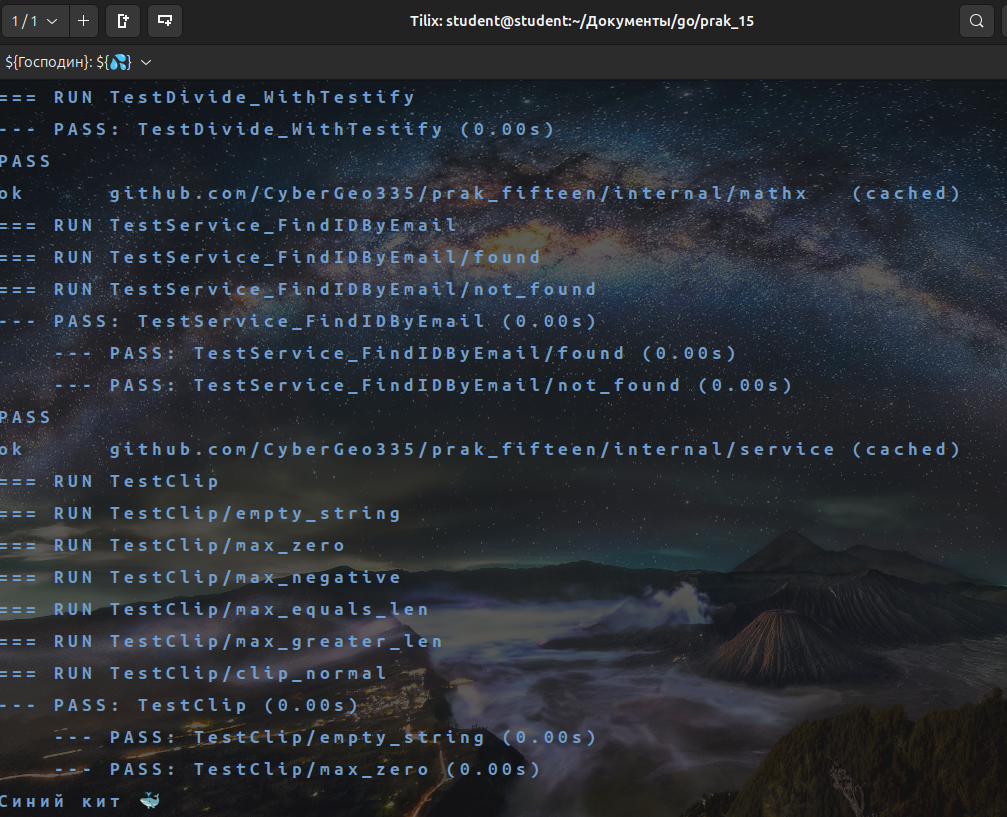
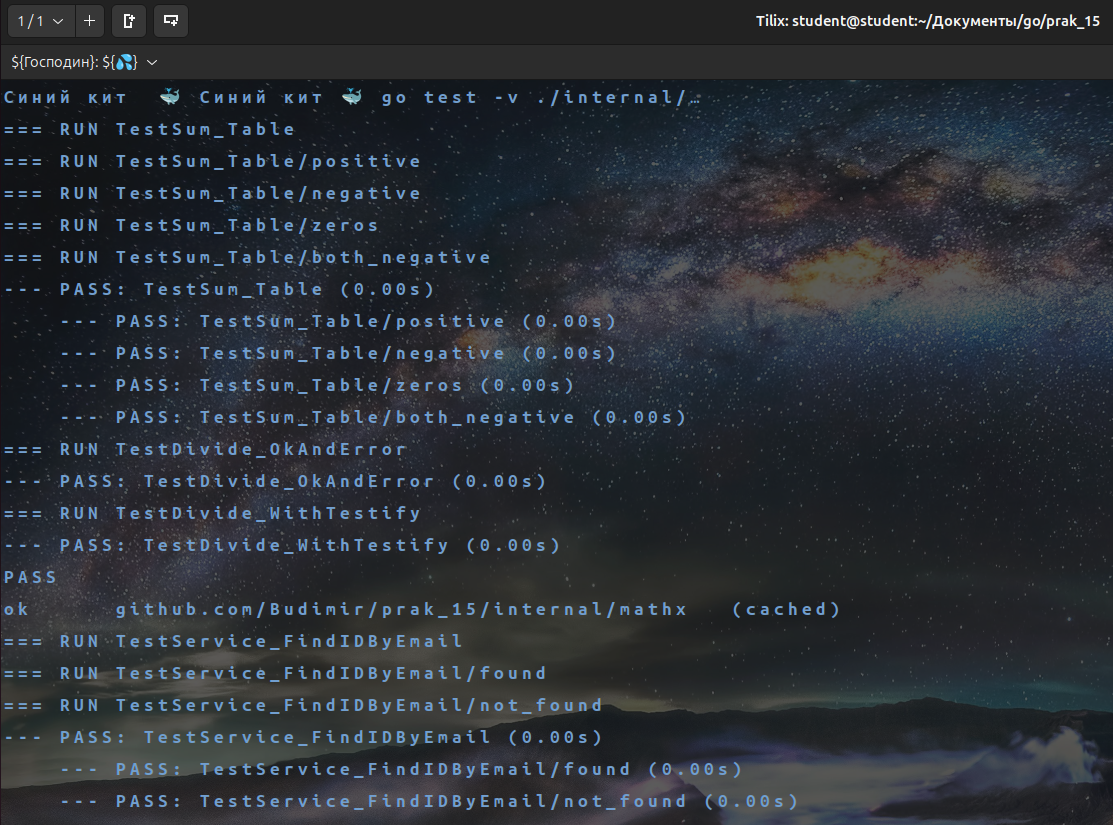
commit ALL

diff --git a/prak_14/README.md b/prak_14/README.md
@@ -24,239 +24,49 @@
 ## Установка и запуск
 
 ### 
-## Оптимизация запросов
-### 1. Keyset-пагинация вместо OFFSET
-internal/repo/note_pg.go:
-// Плохой вариант с OFFSET (медленный на больших смещениях)
-func (r *NoteRepoPostgres) ListOld(ctx context.Context, limit, offset int) ([]*core.Note, error) {
-    query := `
-        SELECT id, title, content, created_at
-        FROM notes
-        ORDER BY created_at DESC, id DESC
-        LIMIT $1 OFFSET $2
-    `
-    // ...
-}
 
-// Оптимизированный вариант с keyset-пагинацией
-func (r *NoteRepoPostgres) List(ctx context.Context, limit int, lastCreatedAt *time.Time, lastID *int64) ([]*core.Note, error) {
-    var rows pgx.Rows
-    var err error
+Запуск проекта:
+Клоним репозиторий:
+git clone https://github.com/Budimir1/Software_Creation_Technologies/tree/main/prak_14
+Проверяем что Go и Git есть:
+pish_golang % cd prak_fourteen
+prak_fourteen % go version
+go version go1.23.2 darwin/arm64
+prak_fourteen % git --version
+git version 2.39.5 (Apple Git-154)
+prak_fourteen %
+Переходим в девятую работу:
+cd prak_fourteen/cmd
+Пример нашего .env:
+# Remote Postgres
+DB_DSN=postgres://root:root@http://address:5432/pz9_bcrypt?sslmode=disable
 
-    if lastCreatedAt != nil && lastID != nil {
-        query := `
-            SELECT id, title, content, created_at
-            FROM notes
-            WHERE (created_at, id) < ($1, $2)
-            ORDER BY created_at DESC, id DESC
-            LIMIT $3
-        `
-        rows, err = r.pool.Query(ctx, query, *lastCreatedAt, *lastID, limit)
-    } else {
-        query := `
-            SELECT id, title, content, created_at
-            FROM notes
-            ORDER BY created_at DESC, id DESC
-            LIMIT $1
-        `
-        rows, err = r.pool.Query(ctx, query, limit)
-    }
-    // ...
-}
+# HTTP
+HTTP_ADDR=:8087
 
-### 2. Устранение N+1 запросов (батчинг)
-// До оптимизации: N отдельных запросов
-func (r *NoteRepoPostgres) GetMultipleNaive(ctx context.Context, ids []int64) ([]*core.Note, error) {
-    var notes []*core.Note
-    for _, id := range ids {
-        note, err := r.GetByID(ctx, id) // N запросов
-        if err != nil {
-            return nil, err
-        }
-        notes = append(notes, note)
-    }
-    return notes, nil
-}
+# Redis (локально через docker compose)
+REDIS_ADDR=127.0.0.1:6379
+REDIS_PASSWORD=kek
+REDIS_DB=0
+CACHE_TTL_SECONDS=45
+Запуск на удалённом сервере:
+go build -o bin/prak_fourteen ./cmd/api/
 
-// После оптимизации: 1 запрос с батчингом
-func (r *NoteRepoPostgres) GetMultiple(ctx context.Context, ids []int64) ([]*core.Note, error) {
-    if len(ids) == 0 {
-        return []*core.Note{}, nil
-    }
-
-    query := `
-        SELECT id, title, content, created_at
-        FROM notes
-        WHERE id = ANY($1)
-        ORDER BY created_at DESC
-    `
-
-    rows, err := r.pool.Query(ctx, query, ids)
-    if err != nil {
-        return nil, fmt.Errorf("get multiple notes: %w", err)
-    }
-    defer rows.Close()
-
-    var notes []*core.Note
-    for rows.Next() {
-        var note core.Note
-        if err := rows.Scan(&note.ID, &note.Title, &note.Content, &note.CreatedAt); err != nil {
-            return nil, fmt.Errorf("scan note: %w", err)
-        }
-        notes = append(notes, &note)
-    }
-
-    return notes, nil
-}
-
-### 3. Подготовленные запросы (prepared statements)
-type NoteRepoPostgres struct {
-    pool       *pgxpool.Pool
-    statements map[string]*pgconn.StatementDescription
-}
-
-func (r *NoteRepoPostgres) prepareStatements(ctx context.Context) error {
-    stmts := map[string]string{
-        "create_note": `
-            INSERT INTO notes (title, content) 
-            VALUES ($1, $2) 
-            RETURNING id, created_at
-        `,
-        "get_note_by_id": `
-            SELECT id, title, content, created_at 
-            FROM notes 
-            WHERE id = $1
-        `,
-        // ...
-    }
-
-    for name, sql := range stmts {
-        sd, err := r.pool.Prepare(ctx, name, sql)
-        if err != nil {
-            return fmt.Errorf("prepare %s: %w", name, err)
-        }
-        r.statements[name] = sd
-    }
-    return nil
-}
-
-func (r *NoteRepoPostgres) Create(ctx context.Context, title, content string) (*core.Note, error) {
-    var note core.Note
-    err := r.pool.QueryRow(ctx, "create_note", title, content).
-        Scan(&note.ID, &note.CreatedAt)
-    if err != nil {
-        return nil, fmt.Errorf("create note: %w", err)
-    }
-    note.Title = title
-    note.Content = content
-    return &note, nil
-}
-
-## Мониторинг и анализ
-
-### 1. EXPLAIN/ANALYZE запросов
--- Анализ запроса пагинации
-EXPLAIN (ANALYZE, BUFFERS)
-SELECT id, title, content, created_at
-FROM notes
-WHERE (created_at, id) < ('2024-01-15 12:00:00', 1000)
-ORDER BY created_at DESC, id DESC
-LIMIT 20;
-
--- Анализ поиска
-EXPLAIN (ANALYZE, BUFFERS)
-SELECT id, title, content
-FROM notes
-WHERE to_tsvector('simple', title) @@ plainto_tsquery('simple', 'оптимизация');
-
-### 2. Статистика запросов
--- Топ 10 самых тяжелых запросов
-SELECT 
-    query,
-    calls,
-    total_exec_time,
-    mean_exec_time,
-    rows,
-    100.0 * shared_blks_hit / nullif(shared_blks_hit + shared_blks_read, 0) AS hit_percent
-FROM pg_stat_statements
-ORDER BY total_exec_time DESC
-LIMIT 10;
-
-### 3. Мониторинг пула подключений
-internal/monitoring/pool.go:
-type PoolMetrics struct {
-    MaxConns     int32
-    TotalConns   int32
-    IdleConns    int32
-    AcquiredConns int32
-}
-
-func GetPoolMetrics(pool *pgxpool.Pool) PoolMetrics {
-    stats := pool.Stat()
-    return PoolMetrics{
-        MaxConns:     stats.MaxConns(),
-        TotalConns:   stats.TotalConns(),
-        IdleConns:    stats.IdleConns(),
-        AcquiredConns: stats.AcquiredConns(),
-    }
-}
-
-## Нагрузочное тестирование
-
-### 1. Скрипт для тестирования
-scripts/load_test.go:
-package main
-
-import (
-    "fmt"
-    "log"
-    "sync"
-    "time"
-
-    "github.com/rakyll/hey/requester"
-)
-
-func main() {
-    // Тест пагинации
-    fmt.Println("Testing pagination endpoint...")
-    work := &requester.Work{
-        N: 1000,
-        C: 50,
-        Method: "GET",
-        URL: "http://localhost:8080/api/v1/notes?limit=20",
-    }
-    work.Run()
-
-    // Тест получения заметки
-    fmt.Println("\nTesting get note endpoint...")
-    work = &requester.Work{
-        N: 2000,
-        C: 100,
-        Method: "GET",
-        URL: "http://localhost:8080/api/v1/notes/1",
-    }
-    work.Run()
-}
-
-### 2. Makefile для автоматизации
-.PHONY: migrate up down load-test monitor explain
-
-migrate:
-    psql -h localhost -U user -d notes -f migrations/001_init.sql
-
-up:
-    docker-compose up -d
-
-down:
-    docker-compose down
-
-load-test:
-    go run scripts/load_test.go
-
-monitor:
-    watch -n 2 "psql -h localhost -U user -d notes -c 'SELECT * FROM pg_stat_activity WHERE state != $$idle$$;'"
-
-explain:
-    psql -h localhost -U user -d notes -f scripts/explain_queries.sql
+nohup ./bin/prak_fourteen >prak_fourteen.log 2>&1 &
+проверка что всё равботает (пикча 3):
+curl -s http://178.72.139.210:8087/health
+![img.png](image%2Fimg.png)
+![img_1.png](image%2Fimg_1.png)
+## Создадим заметку
+![img_1.png](image%2Fimg_2.png)
+## Получить по Id, где второй должен кэшироваться
+![img_2.png](image%2Fimg_3.png)
+## Список (keyset) + поиск по title (FTS)
+![img_3.png](image%2Fimg_4.png)
+## Список (keyset) + поиск по title (FTS)
+![img_4.png](image%2Fimg_5.png)
+## Батч вместо N+1
+![img_5.png](image%2Fimg_6.png)
+## 
 
 

diff --git a/prak_15/README.md b/prak_15/README.md
@@ -25,7 +25,7 @@
 ---
 
 ## Структура проекта
-
+```
 pz15-tests/
 ├── internal/
 │   ├── mathx/
@@ -41,33 +41,7 @@ pz15-tests/
 ├── go.mod
 ├── README.md
 └── coverage.out (генерируется)
-
----
-
-## Задачи практики
-
-1. **Простые функции (mathx)**
-    - Табличные тесты для `Sum`
-    - Тестирование `Divide` с проверкой ошибок
-
-2. **Подтесты и граничные случаи (stringsx)**
-    - Тестирование функции `Clip` с различными параметрами
-    - Использование `t.Run` для группировки тестов
-
-3. **Тестирование сервиса с моком**
-    - Реализация интерфейса `UserRepo`
-    - Использование стаба для изоляции тестов
-
-4. **Покрытие кода**
-    - Генерация отчёта о покрытии
-    - Анализ результатов
-
-5. **Бенчмарки и тестирование паник**
-    - Написание бенчмарков для `Sum`
-    - Тестирование функций, вызывающих `panic`
-
----
-
+```
 ## Установка и запуск
 
 ### 1. Клонирование и инициализация
@@ -75,12 +49,15 @@ pz15-tests/
 mkdir pz15-tests && cd pz15-tests
 go mod init example.com/pz15-tests
 go get github.com/stretchr/testify@latest
+```
 
 ### 2. Запуск тестов
 go test ./...                         # все тесты
+![img.png](image%2Fimg.png)
 go test -v ./internal/...             # подробный вывод
+![img_1.png](image%2Fimg_1.png)
 go test -cover ./...                  # процент покрытия
-
+![img_2.png](image%2Fimg_2.png)
 ### 3. Генерация отчёта о покрытии
 go test -coverprofile=coverage.out ./...
 go tool cover -html=coverage.out      # откроет HTML-отчёт

diff --git a/prak_13/README.md b/prak_13/README.md
@@ -24,6 +24,7 @@
 mkdir pprof-lab
 cd pprof-lab
 go mod init example.com/pprof-lab
+```
 
 ### 2. Структура проекта
 pprof-lab/
@@ -90,6 +91,7 @@ go install github.com/rakyll/hey@latest
 
 # Запустите нагрузку
 hey -n 200 -c 8 http://localhost:8080/work
+![img.png](image%2Fimg.png)
 
 ### Анализ профилей
 #### Веб-интерфейс:
@@ -97,12 +99,7 @@ go tool pprof -http=:9999 http://localhost:8080/debug/pprof/profile?seconds=30
 
 #### Консольный анализ:
 go tool pprof http://localhost:8080/debug/pprof/profile?seconds=30
-# В интерактивном режиме:
-# (pprof) top
-# (pprof) list Fib
-# (pprof) web
-
-## Измерение времени выполнения
+![img_1.png](image%2Fimg_1.png)
 
 ### 1. Декоратор для измерения времени
 internal/work/timer.go:
@@ -175,6 +172,7 @@ func init() {
 - http://localhost:8080/debug/pprof/mutex
 
 ## Структура проекта (полная)
+```
 pprof-lab/
 ├── cmd/api/main.go                      # HTTP-сервер с pprof
 ├── internal/work/
@@ -184,6 +182,7 @@ pprof-lab/
 ├── Makefile                             # Автоматизация
 ├── README.md                            # Документация
 └── go.mod
+```
 
 ## Makefile для автоматизации
 .PHONY: run profile-cpu profile-heap benchmark load-test
